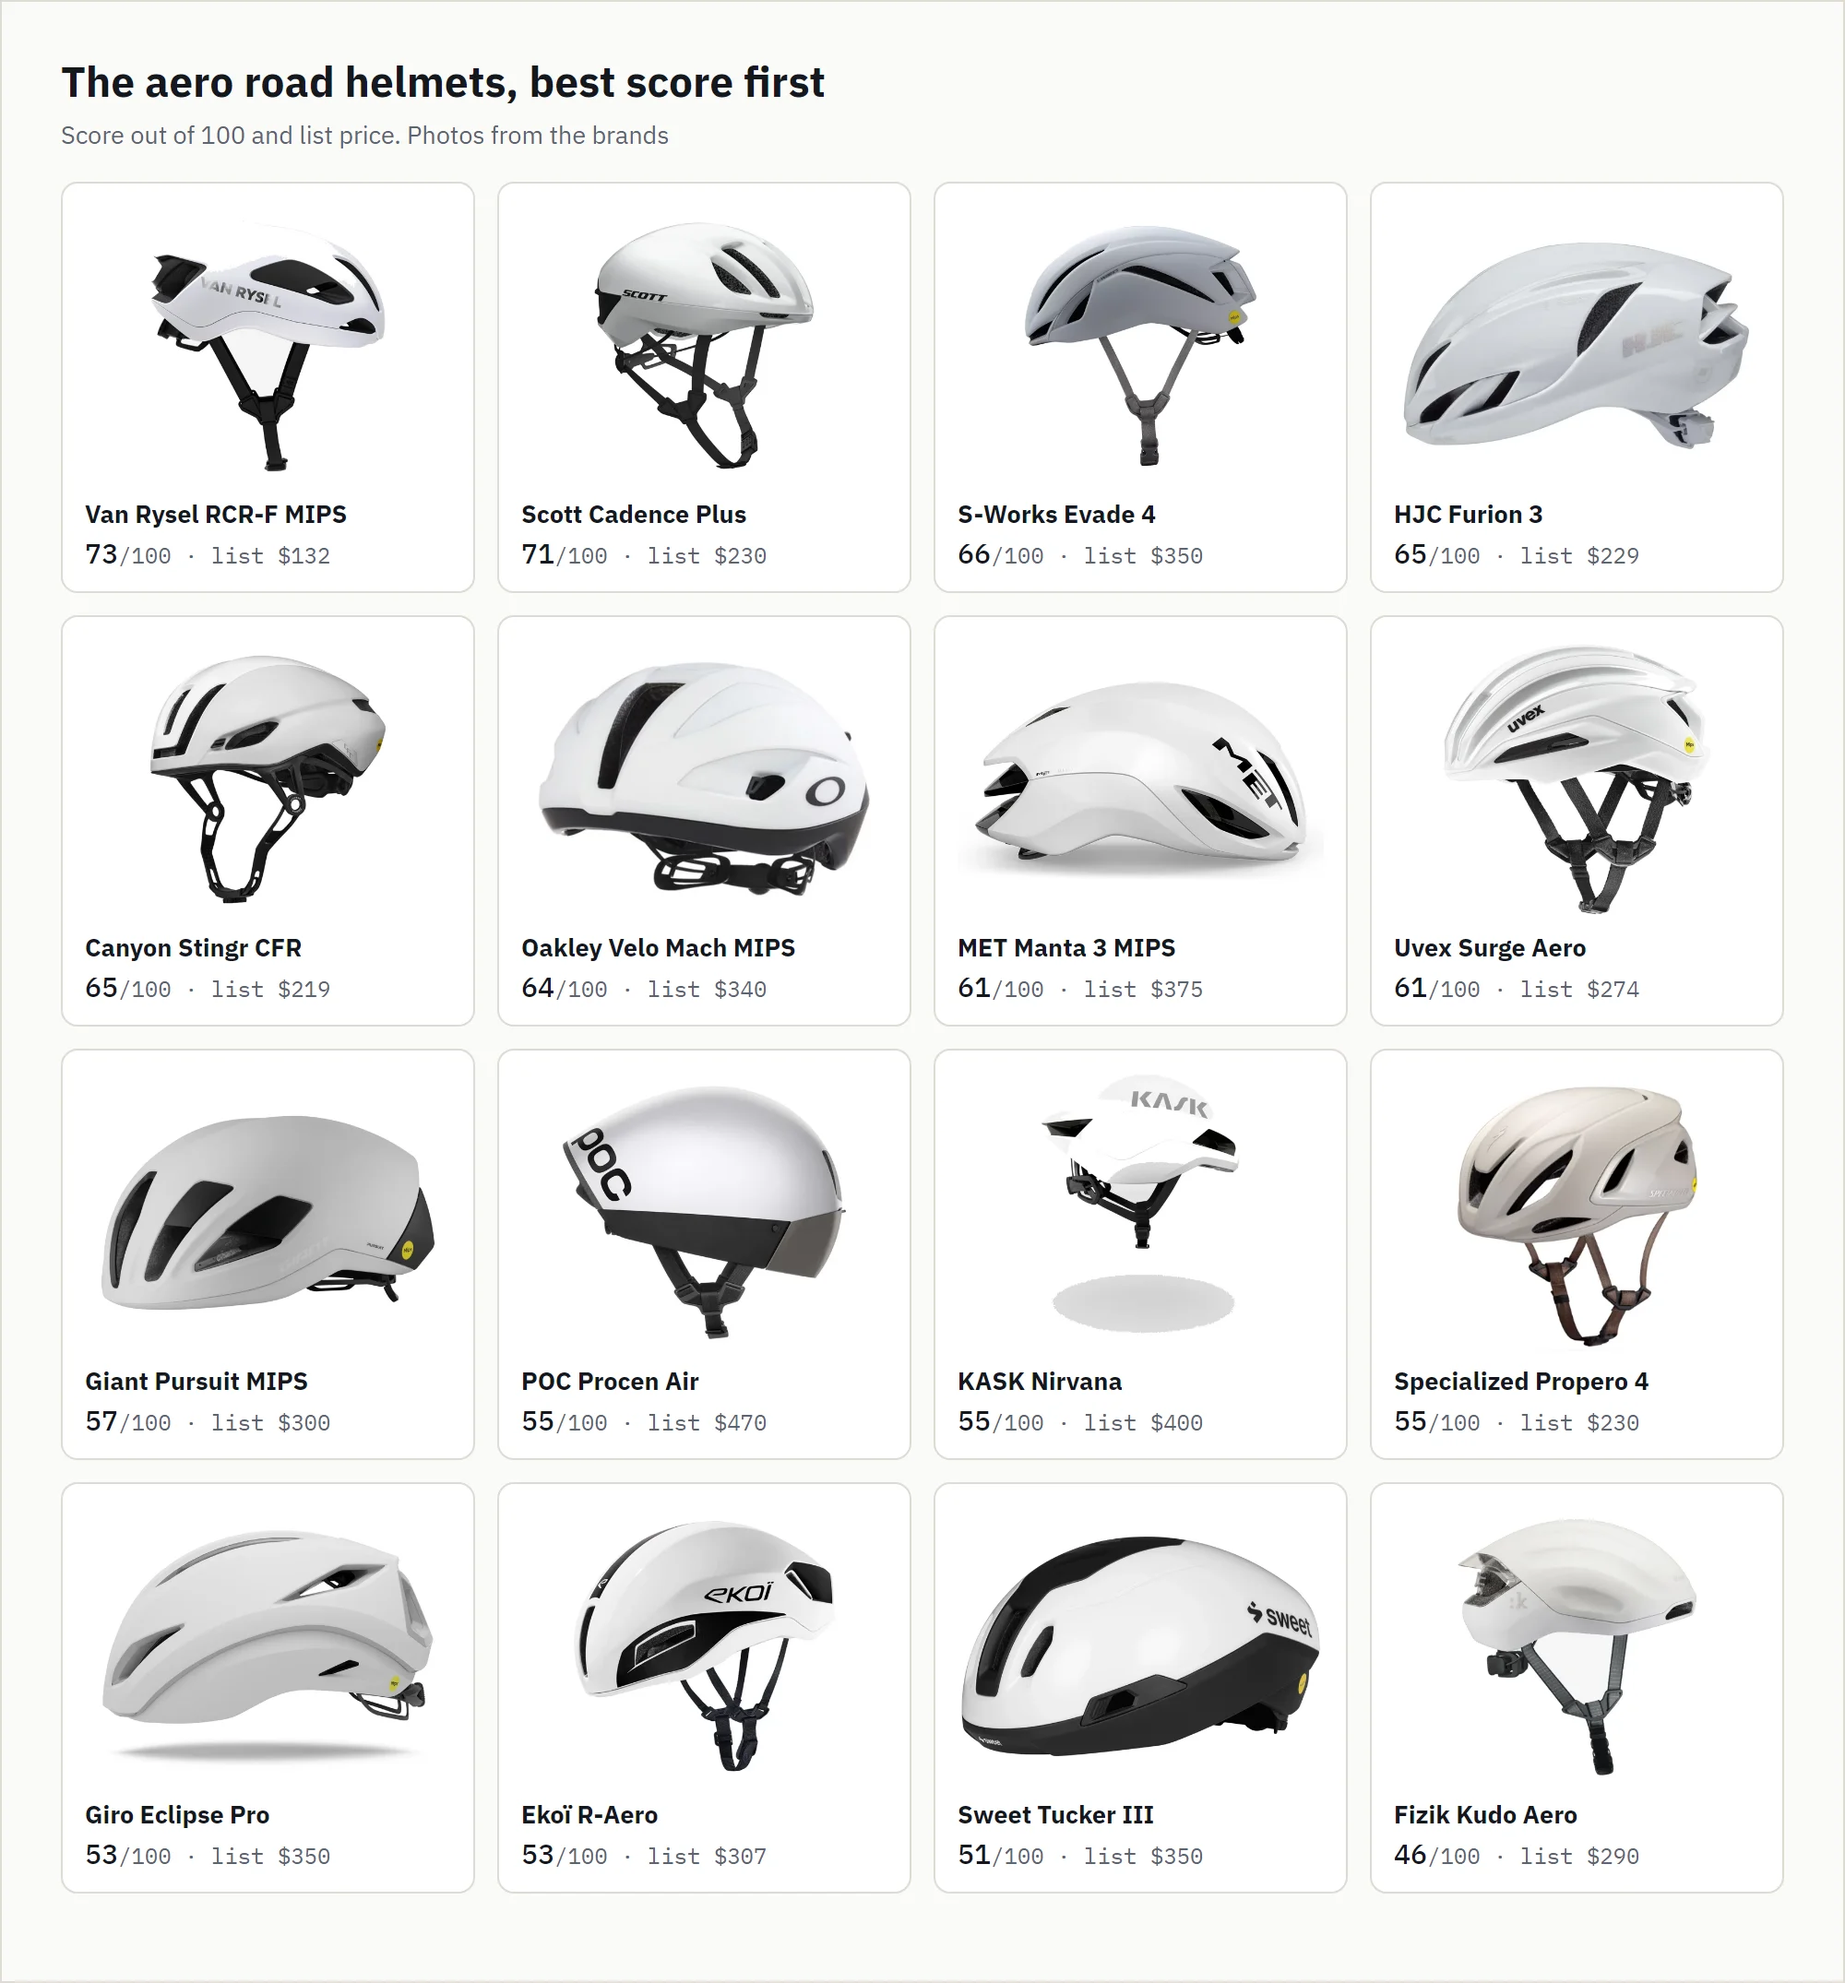
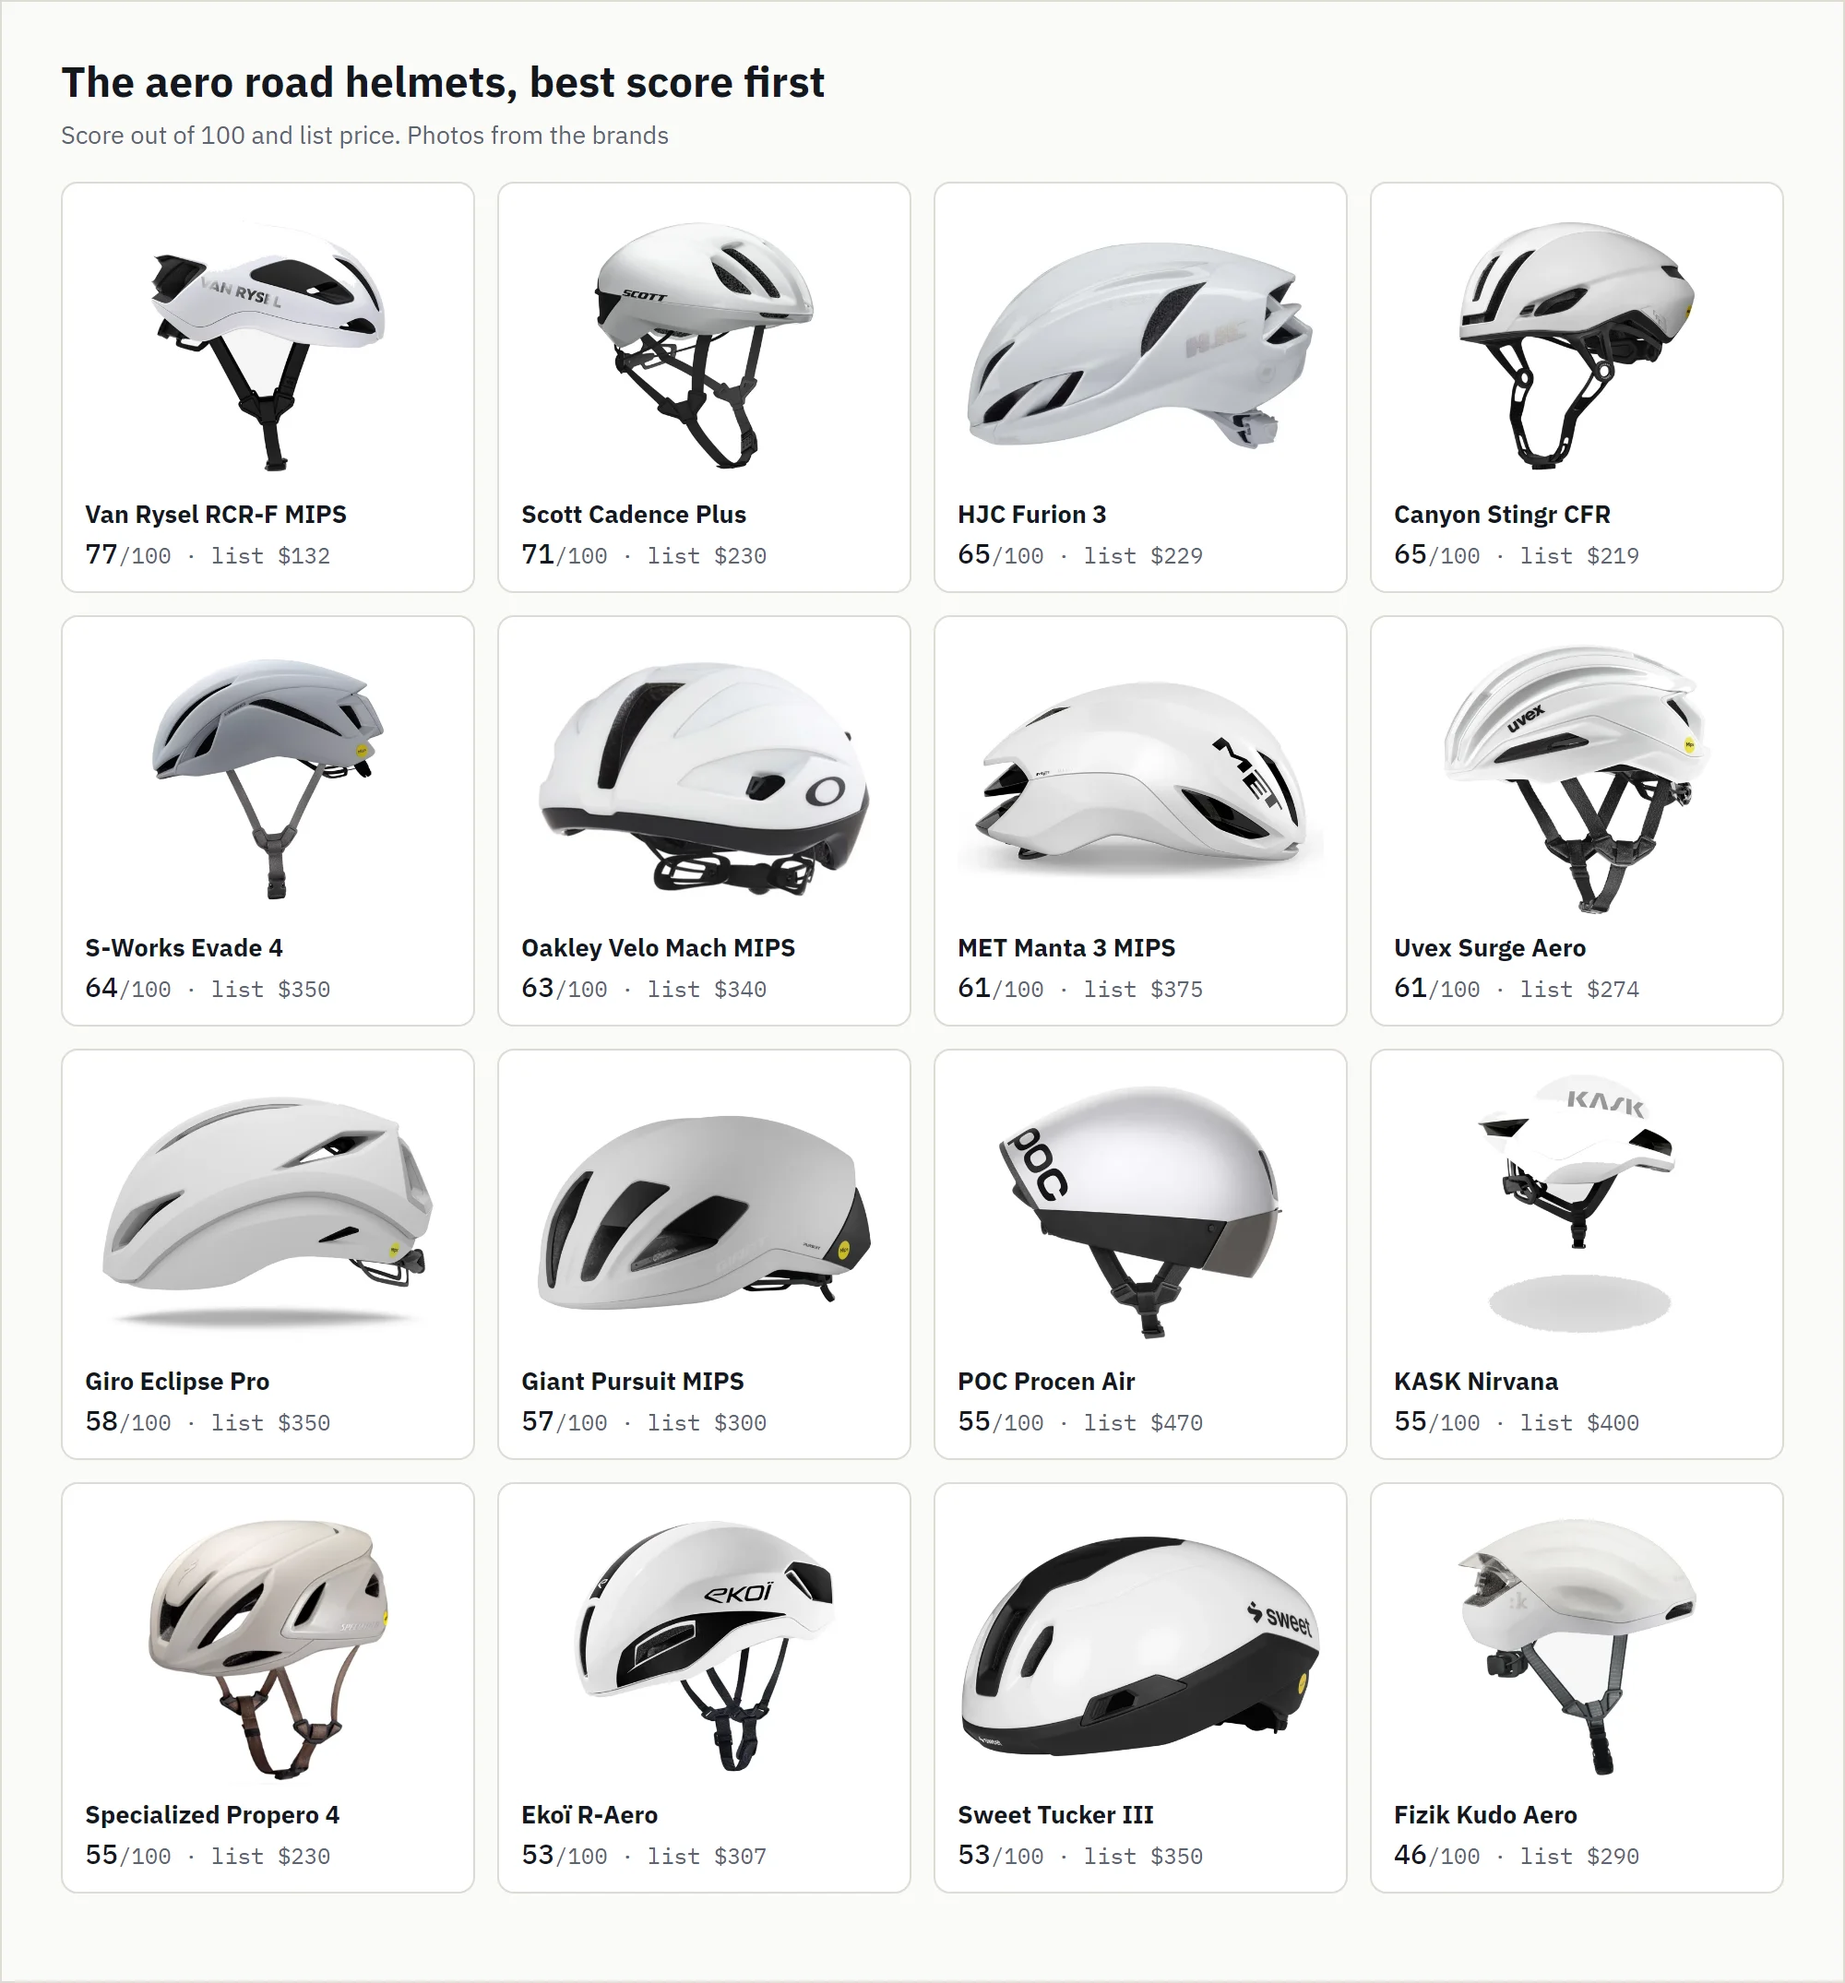
Helmet article: QEF's CFD tables in the scores; RCR-F 77, Evade 4 down, Velo Mach runs warm
QEF | Cycling Science published summary tables for their helmet simulations (aero for nine
helmets in three positions, airflow for six). A simulation now counts halfway between a test
and a brand claim, used only where no tunnel or rider test exists; cooling follows measured
airflow where there is one. RCR-F 73 -> 77, Evade 4 66 -> 64 (slower than the Evade 3, so
the parity claim goes), Velo Mach 64 -> 63, Eclipse Pro 53 -> 58, Tucker III 51 -> 53; TT
unchanged. Road line-up redrawn; one line on lowering the head, not the eyes; dated update note.

diff --git a/backend/content/academy/triathlon-helmets-2026.md b/backend/content/academy/triathlon-helmets-2026.md
@@ -25,6 +25,10 @@ sources:
     year: 2024
     title: "Aero road helmet wind tunnel test, Silverstone (May 2024)"
     finding: "Live rider in a head-up road position at 40 km/h: POC Procen Air fastest, 1.8 W ahead of the S-Works Evade 3; 2.3 W slower with its visor off."
+  - author: "QEF | Cycling Science"
+    year: 2026
+    title: "CFD helmet series and summary tables (YouTube, 2025-2026)"
+    finding: "Computer simulations of one rider's torso and head, no arms or bike. Extra watts against a bare head in a low road position at 50.4 km/h: Oakley Velo Mach 10.6, Sweet Protection Tucker III 12.2, Van Rysel FCR (the RCR-F without MIPS) 12.6, Giro Eclipse Pro 13.7, S-Works Evade 4 15.1, Fizik Kudo Aero 22.4. Air through the helmet at 39.6 km/h: Evade 4 36.1 g/s, FCR 34.9, Eclipse Pro 28.2, Velo Mach 23.2, Tucker III 20.1. Looking at the ground with a relaxed neck added drag. Who funds the channel isn't stated."
   - author: "Virginia Tech Helmet Lab"
     year: 2025
     title: "Bicycle helmet ratings memorandum (July 2025)"
@@ -55,13 +59,13 @@ sources:
     finding: "40% off a new cycling helmet after a crash, up to two years from the purchase date of the damaged one, once per helmet."
 ---
 
-Black Friday ideas for next season's helmet. We scored 28 helmets, read 913 opinions and checked this week's prices. The short version: buy last year's model. Helmets from 2024 are a median 38% off this week, 2025 helmets 30%, and most 2026 helmets aren't discounted at all. The scores are strict: every helmet gives something up, in cooling, weight, price or certification, so the best here is 73 of 100.
+Black Friday ideas for next season's helmet. We scored 28 helmets, read 913 opinions and checked this week's prices. The short version: buy last year's model. Helmets from 2024 are a median 38% off this week, 2025 helmets 30%, and most 2026 helmets aren't discounted at all. The scores are strict: every helmet gives something up, in cooling, weight, price or certification, so the best here is 77 of 100.
 
 - **Buy last year's model.** The discounts are on 2024 and 2025 helmets, and a helmet doesn't get slower in a year.
 - **Best TT helmet: ABUS TimeShifter, 63 of 100,** a point ahead of the Giant Rivet MIPS. A 2026 model, so no Black Friday price, and three catches below.
 - **Best TT value: Giant Rivet MIPS, 62.** Second of 47 helmets in a wind tunnel test, at $350 list, about half the ABUS. This week only in the UK, on pre-order; we found no US shop.
 - **Racing in the US: Rudy Project Wingdream.** The best TT helmet here with CPSC certification.
-- **Best for hot races: Van Rysel RCR-F, ≈$137 (€125),** in the UK and EU. In the US, where it isn't sold, the S-Works Evade 4 at $350.
+- **Best for hot races: Van Rysel RCR-F, ≈$137 (€125),** in the UK and EU. In the US, where it isn't sold, the S-Works Evade 4 at $350, the one that moved the most air in a simulation.
 - **Skip: Giro Aerohead II,** even at 38% off.
 - **Your head is worth 3-4 W at 35 km/h.** The best helmet swap, about 1 W.
 
@@ -80,10 +84,10 @@ New models mostly hold their price; shops clear last season's to make room. Our 
 | Scott Cadence Plus | road | 2024 | 71 | ≈$88 (€80) | -68% | UK/EU, yellow S only |
 | HJC Furion 3 | road | 2025 | 65 | ≈$166 (€151) | -28% | UK/EU |
 | Canyon Stingr CFR | road | 2024 | 65 | ≈$132 (€120) | -40% | UK/EU, members price |
-| Oakley Velo Mach MIPS † | road | 2025 | 64 | ≈$202 (£154) | -45% | UK/EU, black/red S-M |
+| Oakley Velo Mach MIPS † | road | 2025 | 63 | ≈$202 (£154) | -45% | UK/EU, black/red S-M |
+| Giro Eclipse Pro † | road | 2026 | 58 | ≈$251 (£191) | -35% | UK/EU, matte black |
 | POC Procen Air † | road | 2024 | 55 | $235 ‡ | -50% | US |
 | KASK Nirvana † | road | 2024 | 55 | ≈$261 (£199) | -38% | UK/EU, three colours |
-| Giro Eclipse Pro † | road | 2026 | 53 | ≈$251 (£191) | -35% | UK/EU, matte black |
 
 Scores compare within a type: TT with TT, road with road. † CPSC certification listed. ‡ Seen in search results; the shop's page didn't open for us
 
@@ -129,31 +133,31 @@ A TT tail only helps while your head stays still. On a hot Ironman, or if you lo
 
 | Helmet | Score | List | Lowest seen, US | Lowest seen, UK/EU |
 |---|---|---|---|---|
-| Van Rysel RCR-F MIPS | 73 | ≈$132 (€120) | not sold | ≈$137 (€125) |
+| Van Rysel RCR-F MIPS | 77 | ≈$132 (€120) | not sold | ≈$137 (€125) |
 | Scott Cadence Plus | 71 | $230 | $80 ‡, -65%, one left | ≈$88 (€80), -68%, yellow S only |
-| S-Works Evade 4 † | 66 | $350 | $350, back order | ≈$327 (£249) |
 | HJC Furion 3 | 65 | ≈$229 (€209) | not sold | ≈$166 (€151), -28% |
 | Canyon Stingr CFR | 65 | ≈$219 (€200) | not sold | ≈$132 (€120), -40%, members price |
-| Oakley Velo Mach MIPS † | 64 | $340 | $340 | ≈$202 (£154), -45%, black/red S-M |
+| S-Works Evade 4 † | 64 | $350 | $350, back order | ≈$327 (£249) |
+| Oakley Velo Mach MIPS † | 63 | $340 | $340 | ≈$202 (£154), -45%, black/red S-M |
 | MET Manta 3 MIPS | 61 | $375 | not yet | ≈$329 (€300) |
 | Uvex Surge Aero MIPS | 61 | ≈$274 (€250) | $220 ‡ | ≈$177 (€162) |
+| Giro Eclipse Pro † | 58 | $350 | $350 | ≈$251 (£191), -35%, matte black |
 | Giant Pursuit MIPS | 57 | $300 | $300 | ≈$263 (£200) |
 | POC Procen Air † | 55 | $470 | $235 ‡, -50% | ≈$273 (€249), -38% |
 | KASK Nirvana † | 55 | $400 | $300 ‡, -25% | ≈$261 (£199), -38%, three colours, M-L |
 | Specialized Propero 4 † | 55 | $230 | $160 ‡, -30% | ≈$176 (£134), -19% |
-| Giro Eclipse Pro † | 53 | $350 | $350 | ≈$251 (£191), -35%, matte black |
 | Ekoï R-Aero | 53 | ≈$307 (€280) | $135 ‡, pre-order | ≈$205 (£156) ‡ |
-| Sweet Protection Tucker III † | 51 | $350 | $210 ‡, -40% | ≈$249 (€227), -35%, low stock |
+| Sweet Protection Tucker III † | 53 | $350 | $210 ‡, -40% | ≈$249 (€227), -35%, low stock |
 | Oakley ARO7 Road † | 51 | $300 | $210 ‡, -30% | ≈$241 (€220), -31% |
 | Fizik Kudo Aero † | 46 | $290 | $159 ‡, -45% | ≈$196 (£149), -45% |
 
-![The aero road helmets, best score first. Photos: Van Rysel, Scott, Specialized, HJC, Canyon, Oakley, MET, Uvex, Giant, POC, KASK, Giro, Ekoï, Sweet Protection, Fizik](/media/academy/triathlon-helmets-2026/lineup-road.webp)
+![The aero road helmets, best score first. Photos: Van Rysel, Scott, HJC, Canyon, Specialized, Oakley, MET, Uvex, Giro, Giant, POC, KASK, Ekoï, Sweet Protection, Fizik](/media/academy/triathlon-helmets-2026/lineup-road.webp)
 
-**Van Rysel RCR-F.** Tied with the KASK Nirvana in the 2025 tunnel test at a third of the price. MIPS and a magnetic buckle. Decathlon shows 4.7 stars from about 570 reviews; the complaint is heat on slow, hot climbs.
+**Van Rysel RCR-F.** Tied with the KASK Nirvana in the 2025 tunnel test at a third of the price. In QEF's computer simulations the same shell without MIPS moved almost as much air as the Evade 4, the best ventilated of the six they measured. MIPS and a magnetic buckle. Decathlon shows 4.7 stars from about 570 reviews; the complaint is heat on slow, hot climbs.
 
 **Scott Cadence Plus.** Second on our score: cool, a magnetic buckle, fourth in a Cyclingnews tunnel test. It is also being cleared out: one left at $80 in the US and only yellow size S at ≈$88 (€80) in Europe when we looked, and since Virginia Tech tightened its scale in 2025 it rates it 3 stars, not 5. A bargain if you find your size; not one to wait for.
 
-**Oakley Velo Mach.** The fastest road helmet in that test, and ≈$202 (£154) in the UK this week in black/red, S and M; other colours £179. It runs narrow: a tester with a 61 cm head found the L too small.
+**Oakley Velo Mach.** The fastest road helmet in that test, and ≈$202 (£154) in the UK this week in black/red, S and M; other colours £179. It runs narrow: a tester with a 61 cm head found the L too small. And it runs warm: in QEF's simulations it moved a third less air than the Evade 4, nine tenths of it through the front vent.
 
 **Canyon Stingr CFR.** Third in the tunnel, but two testers found its rigid HighBar strap presses on the throat when the head drops. On a tri bike your head drops for hours. Try it in your race position first.
 
@@ -187,7 +191,7 @@ The ranking says which helmets are good. Which one is good for you takes four qu
 
 **2. How hot is the race?** Hot, or with long climbs: an aero road helmet, for the reasons above. Flat and cool: a TT helmet.
 
-**3. Where does your head sit?** This step decides most. A long tail is built for a rider who holds the head still with the tail on the back. Makers of short-tail helmets argue nobody holds that for hours; nobody has published numbers either way. What has been measured points the same way as our estimate: in a tunnel session with several helmets, dropping the head cut drag 1.4% even with the tail pointing up. So set your head first and pick the tail to fit it, never the other way round.
+**3. Where does your head sit?** This step decides most. A long tail is built for a rider who holds the head still with the tail on the back. Makers of short-tail helmets argue nobody holds that for hours; nobody has published numbers either way. What has been measured points the same way as our estimate: in a tunnel session with several helmets, dropping the head cut drag 1.4% even with the tail pointing up. Dropping only the eyes is different: in QEF's simulations a rider who relaxed the neck and looked at the ground added about 1.5 W at 35 km/h. Lower the head and keep looking up the road. So set your head first and pick the tail to fit it, never the other way round.
 
 - **Helmet near the pros' +18%, and it stays there:** a long tail can pay.
 - **Higher, or it moves when you look up the road:** a short tail (the TimeShifter, KASK Mistral 3.0, Van Rysel RCR-X 2) or an aero road helmet.
@@ -204,9 +208,9 @@ Every helmet gets 0 to 10 on eight criteria, weighted for a long triathlon bike 
 
 | Criterion | Weight | What earns points |
 |---|---|---|
-| Aero evidence | 22% | An independent test and how it came out; for a TT helmet, a test in a road position counts a little less. A brand's own claim scores a little below neutral |
+| Aero evidence | 22% | An independent test and how it came out; for a TT helmet, a test in a road position counts a little less. A computer simulation counts halfway between a test and a claim. A brand's own claim scores a little below neutral |
 | Head movement | 17% | A short tail, as a rough proxy: over hours you look down and around |
-| Cooling | 13% | Real vents and channels, not a closed shell |
+| Cooling | 13% | Airflow through the helmet where a simulation measured it; otherwise real vents and channels, not a closed shell |
 | Value | 13% | List price, not this week's sale, so the rank doesn't depend on your country |
 | T1 | 8% | Magnetic buckle, visor over prescription glasses |
 | Safety | 8% | Rotational protection and the Virginia Tech rating |
@@ -220,3 +224,5 @@ The owner score comes from 913 opinions coded by topic: 377 from owners on Slowt
 To check the weights weren't deciding the result, we redrew every weight 5,000 times at half to one and a half its value. The TimeShifter and the Rivet stayed in the top three every time and split first place 52 to 48; the Wingdream made the top three 98% of the time.
 
 Prices are the lowest we found from 23 to 25 November, rechecked on 25 November, at shops we could read; sale prices change daily. No affiliate links, and nobody paid to be here.
+
+**Updated 26 November.** A reader pointed us to QEF's helmet simulations. They raised the RCR-F, better ventilated than we'd credited, and the Eclipse Pro, now tested rather than only claimed. They lowered the Evade 4, slower than the Evade 3 in their runs, and the Velo Mach, which runs warm.
